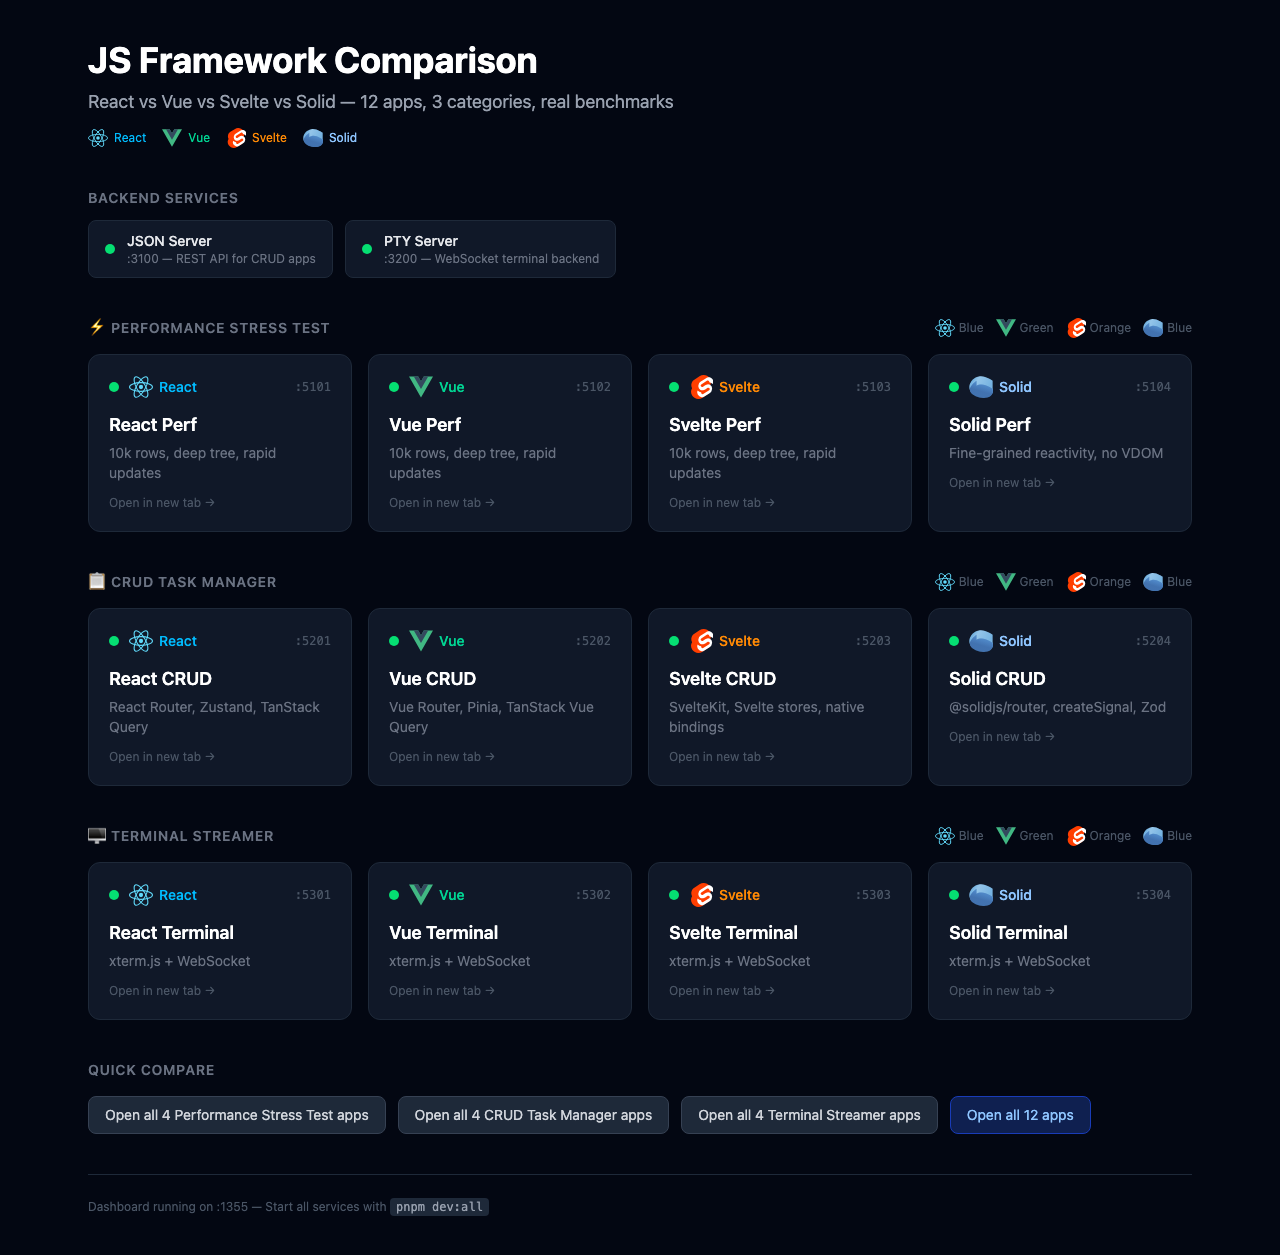
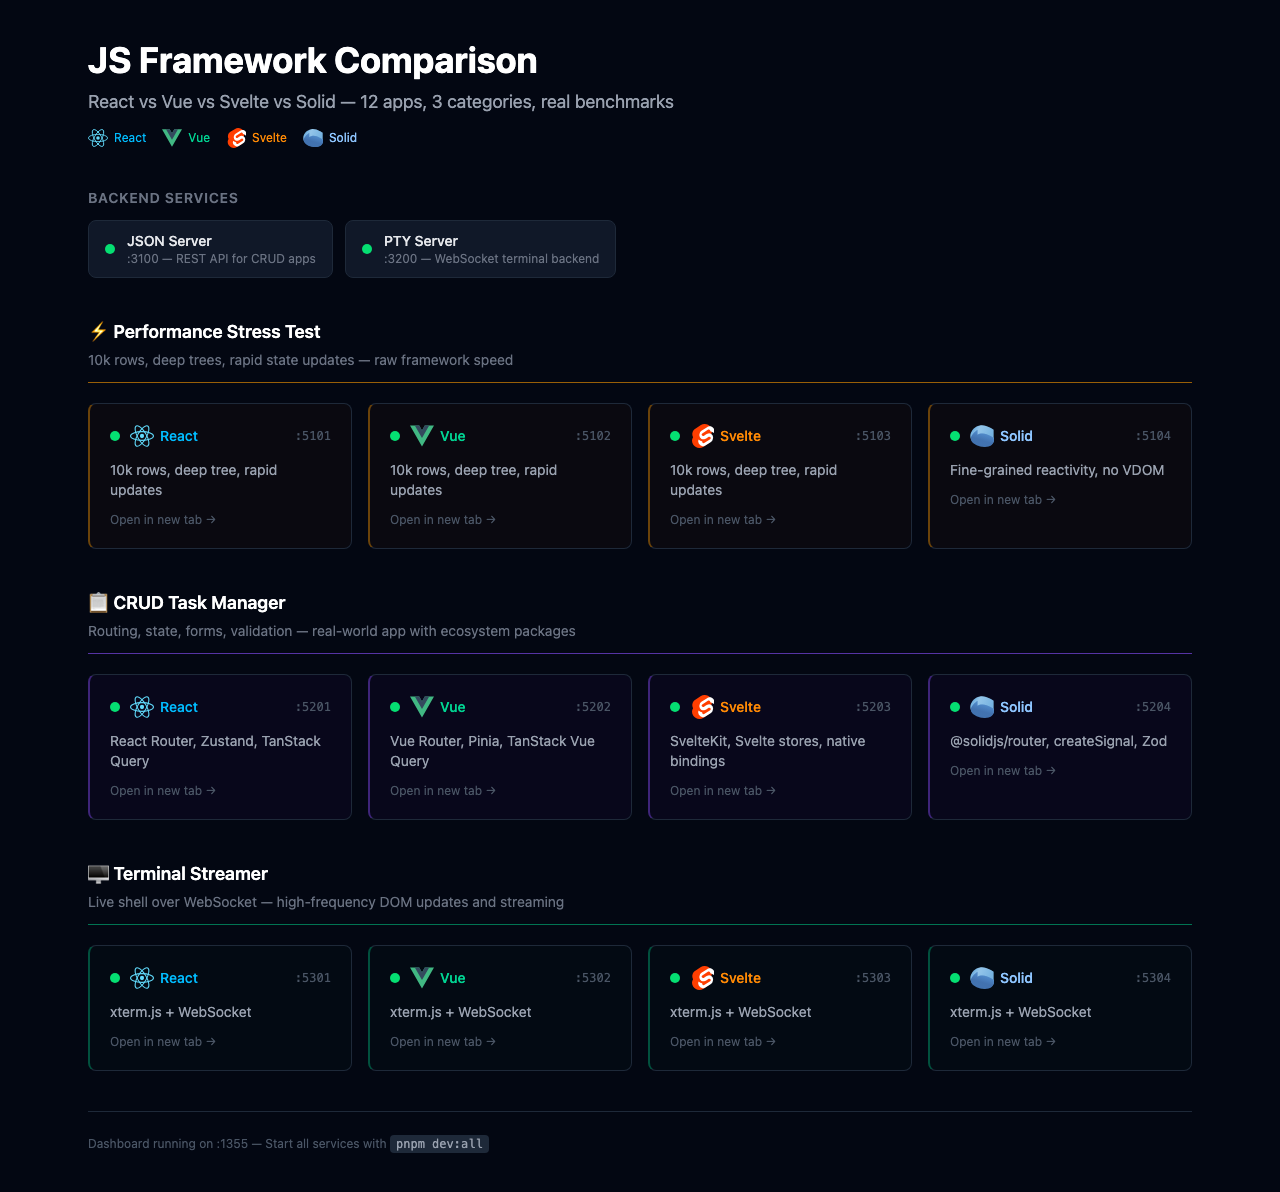
Redesign dashboard: distinct visual identity per section
- Perf Stress: amber accent border + warm tint
- CRUD: violet accent border + purple tint
- Terminal: emerald accent border + green tint
- Each section has a subtitle describing what it tests
- Removed redundant per-section framework legends

diff --git a/dashboard/src/main.ts b/dashboard/src/main.ts
@@ -59,10 +59,31 @@ const frameworkIcons: Record<string, { svg: string; svgLarge: string; color: str
   },
 }
 
-const typeLabels: Record<string, { label: string; icon: string }> = {
-  perf: { label: 'Performance Stress Test', icon: '⚡' },
-  crud: { label: 'CRUD Task Manager', icon: '📋' },
-  xterm: { label: 'Terminal Streamer', icon: '🖥' },
+const typeLabels: Record<string, { label: string; icon: string; subtitle: string; accent: string; cardBorder: string; cardBg: string }> = {
+  perf: {
+    label: 'Performance Stress Test',
+    icon: '⚡',
+    subtitle: '10k rows, deep trees, rapid state updates — raw framework speed',
+    accent: 'border-amber-500/60',
+    cardBorder: 'border-l-amber-500/40 hover:border-l-amber-400',
+    cardBg: 'bg-amber-950/10 hover:bg-amber-950/20',
+  },
+  crud: {
+    label: 'CRUD Task Manager',
+    icon: '📋',
+    subtitle: 'Routing, state, forms, validation — real-world app with ecosystem packages',
+    accent: 'border-violet-500/60',
+    cardBorder: 'border-l-violet-500/40 hover:border-l-violet-400',
+    cardBg: 'bg-violet-950/10 hover:bg-violet-950/20',
+  },
+  xterm: {
+    label: 'Terminal Streamer',
+    icon: '🖥',
+    subtitle: 'Live shell over WebSocket — high-frequency DOM updates and streaming',
+    accent: 'border-emerald-500/60',
+    cardBorder: 'border-l-emerald-500/40 hover:border-l-emerald-400',
+    cardBg: 'bg-emerald-950/10 hover:bg-emerald-950/20',
+  },
 }
 
 async function checkHealth(port: number): Promise<boolean> {
@@ -128,26 +149,21 @@ function render() {
         <!-- App Groups -->
         ${types.map((type) => {
           const typeApps = apps.filter((a) => a.type === type)
-          const { label, icon } = typeLabels[type]
+          const t = typeLabels[type]
           return `
             <div class="mb-10">
-              <div class="flex items-center justify-between mb-4">
-                <h2 class="text-sm font-semibold text-gray-500 uppercase tracking-wider">
-                  ${icon} ${label}
+              <div class="border-b ${t.accent} pb-3 mb-5">
+                <h2 class="text-lg font-semibold text-white">
+                  ${t.icon} ${t.label}
                 </h2>
-                <div class="flex items-center gap-3 text-xs text-gray-600">
-                  <span class="flex items-center gap-1">${frameworkIcons.react.svg} Blue</span>
-                  <span class="flex items-center gap-1">${frameworkIcons.vue.svg} Green</span>
-                  <span class="flex items-center gap-1">${frameworkIcons.svelte.svg} Orange</span>
-                  <span class="flex items-center gap-1">${frameworkIcons.solid.svg} Blue</span>
-                </div>
+                <p class="text-sm text-gray-500 mt-1">${t.subtitle}</p>
               </div>
               <div class="grid grid-cols-4 gap-4">
                 ${typeApps.map((app) => {
                   const fw = frameworkIcons[app.framework]
                   return `
                     <a href="http://localhost:${app.port}" target="_blank"
-                       class="group block bg-gray-900 border border-gray-800 rounded-xl p-5 hover:border-gray-600 hover:bg-gray-900/80 transition-all">
+                       class="group block border-l-2 ${t.cardBorder} ${t.cardBg} border border-gray-800 rounded-lg p-5 hover:border-gray-700 transition-all">
                       <div class="flex items-center justify-between mb-3">
                         <div class="flex items-center gap-2.5">
                           ${statusDot(`app-${app.port}`)}
@@ -158,10 +174,7 @@ function render() {
                         </div>
                         <span class="text-xs text-gray-600 font-mono">:${app.port}</span>
                       </div>
-                      <h3 class="text-lg font-semibold text-white mb-1 group-hover:text-blue-400 transition-colors">
-                        ${app.name}
-                      </h3>
-                      <p class="text-sm text-gray-500">${app.description}</p>
+                      <p class="text-sm text-gray-400">${app.description}</p>
                       <div class="mt-3 text-xs text-gray-600 group-hover:text-gray-400 transition-colors">
                         Open in new tab →
                       </div>
